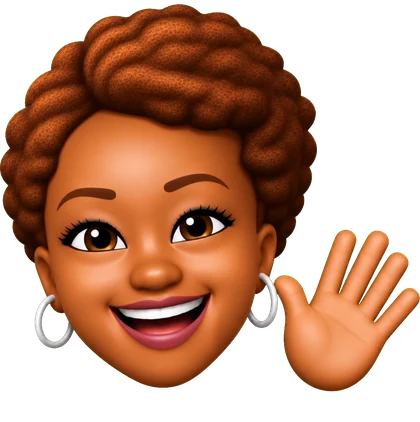
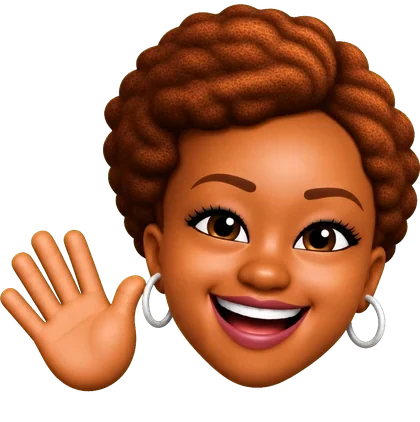
Editorial: add the poet accolade, flip the Swati wave, nudge and enlarge the greeting faces

diff --git a/index.html b/index.html
@@ -463,7 +463,7 @@
     </article>
 
     <article class="ed-tile ed-tile--2">
-      <div class="ed-art" style="--ar:1.231;--ed-bot:56px">
+      <div class="ed-art" style="--ar:1.231;--ed-bot:92px">
         <div class="ed-art-in">
           <img loading="lazy" src="./assets/images/cards/ed-paper.webp" width="900" height="731" alt="">
           <svg class="ed-verse" viewBox="0 0 900 731" aria-label="I’d write a little more for you, but this must fit on mobile too.">
@@ -475,6 +475,7 @@
       </div>
       <div class="ed-body">
         <h3 class="ed-headline">Award-winning poet</h3>
+        <p class="ed-text">Honoured at the Allied Arts Competition of Zimbabwe.</p>
       </div>
     </article>
 

diff --git a/assets/css/style.css b/assets/css/style.css
@@ -784,7 +784,7 @@ html{scrollbar-color:var(--v45) var(--ink);scrollbar-width:thin;}
   font-size:3.3cqw;letter-spacing:0.14em;text-transform:uppercase;color:#6b4a33;
 }
 .ed-art-in .ed-g-face{
-  inset:auto auto -16% -5%;width:30%;height:auto;object-fit:initial;
+  inset:auto auto -16% -2%;width:33%;height:auto;object-fit:initial;
   filter:drop-shadow(0 4px 6px rgba(0,0,0,0.3));transform-origin:50% 100%;
 }
 [data-theme="light"] .ed-art-in .ed-g-face{filter:drop-shadow(0 4px 6px rgba(13,17,23,0.22));}
